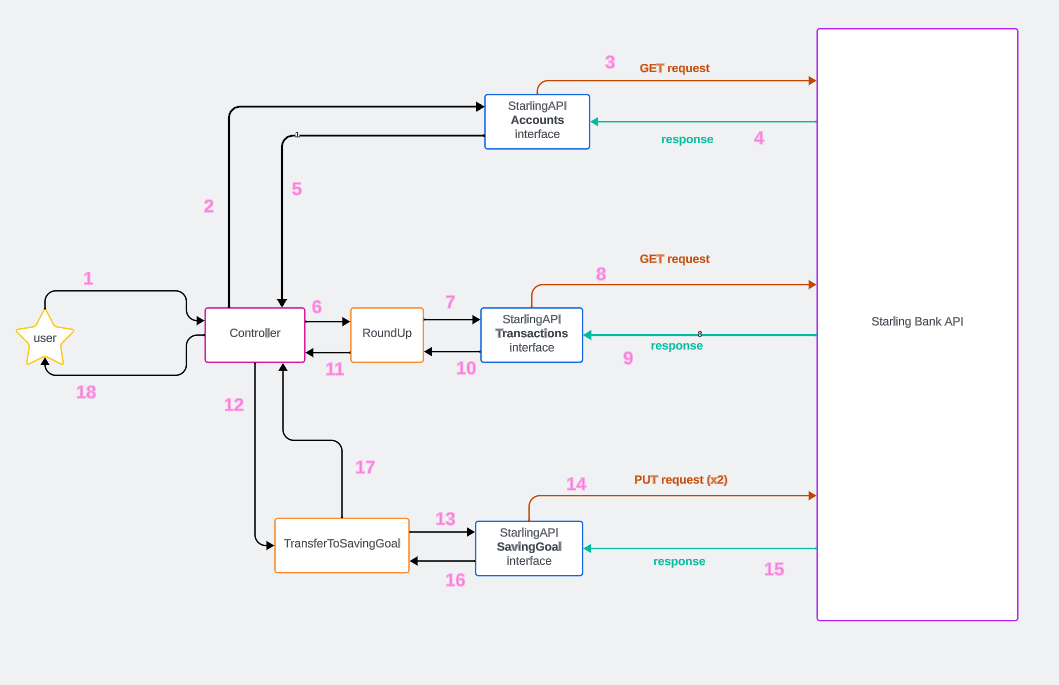
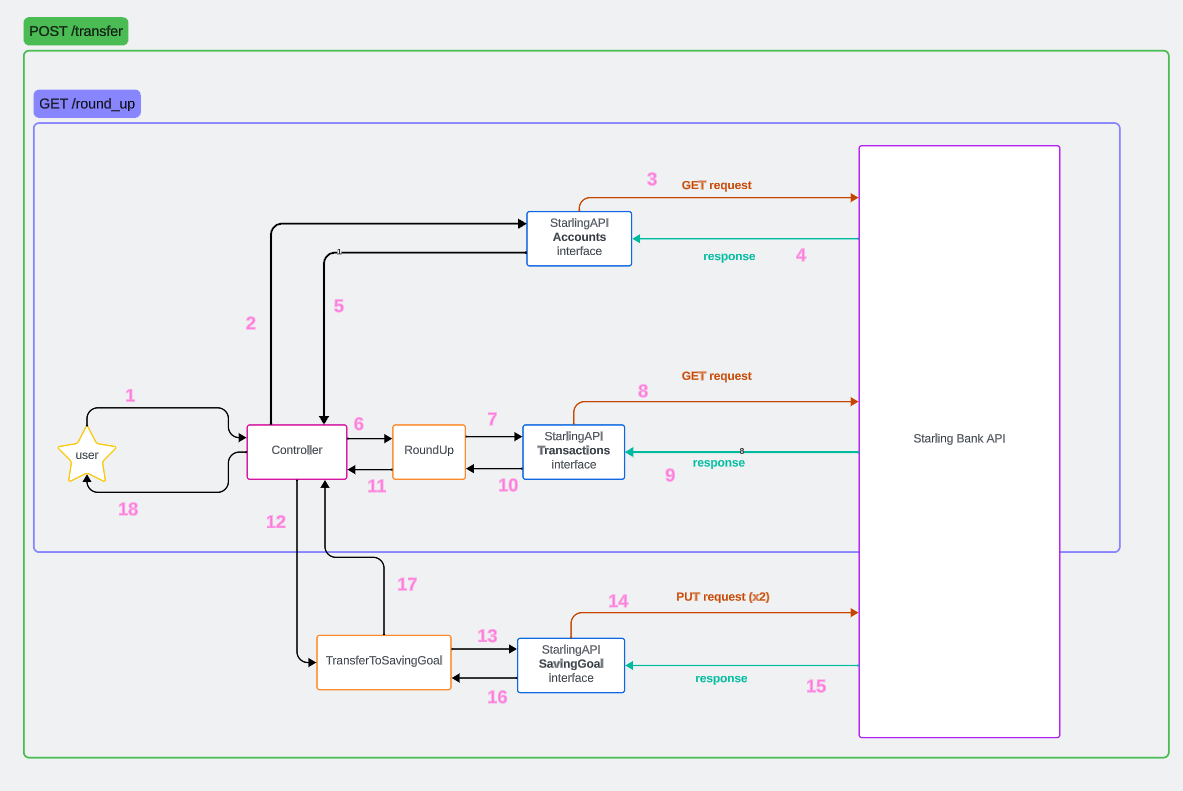
Update README

diff --git a/README.md b/README.md
@@ -6,10 +6,14 @@ For a customer, the transactions are rounded up to the nearest pound and this am
 
 ## Technologies
 
-- Ruby on rails 
-- RSpec
-- HTTPparty
-- Starling API
+- [Ruby on rails](https://rubyonrails.org/)
+- [RSpec](https://rspec.info/)
+- [HTTparty](https://github.com/jnunemaker/httparty)
+- [Starling Bank API](https://developer.starlingbank.com/docs)
+- [WebMock](https://github.com/bblimke/webmock)
+
+I used rails to implement this app without making use of all it provides (Models, database etc).
+I could have used Ruby and [Rack](https://github.com/rack/rack) to implement this instead of using Rails, however I opted for rails as it can be used as an API and also provide Front End.
 
 
 ## Set up
@@ -47,67 +51,80 @@ For a customer, the transactions are rounded up to the nearest pound and this am
   rails s
   ```
 
-- To get the round_up, run the following command in a different terminal:
-
-  ```
-  curl -X POST http://localhost:3000/round_up
-  ```
-
-  Response will look like: 
-
-  ```JSON
-  {'round_up_amount':'1351 pence (£13.51)'}
-  ```
-
-  Since there is only one account and the transactions are all recent, the `account_uid` and dates (`min_date` and `max_date`) have default values if not sent in the request. 
-
-  The default value for `account_uid` comes from a call to Starling API.
-  The default value for `min_date` and `max_date` set to `02/09/2023` and `09/09/2023` respectively.
-
-  However, they can also be sent in the request like so: 
- 
-   ```
-   curl -X POST http://localhost:3000/round_up -d 'account_uid=<account_uid>' -d 'min_date=<min_date>' -d 'max_date=<max_date>'
-   ```
-
-   `min_date` and `max_date` should be in the `dd/mm/year` format. 
-
-   
-- To transfer the money to saving goal, run the following command in the terminal:
+- To get the round up amount and transfer the money to saving goal, run the following command in the terminal:
 
   ```
   curl -X POST http://localhost:3000/transfer
   ```
   
+  This will  create a new saving goal and transfer the round up money to this new goal.
   The response will look like:
 
-  ```JSON
+  ```
   {'round_up_amount':'1351 pence (£13.51)','transfer_uid':'bf0f9563-4d81-4dbd-9a68-8c7f126e207d'}
   ```
-  
-  Same as `round_up`, the `account_uid` and dates (`min_date` and `max_date`) have default values and can be sent in the request. 
 
+  Since there is only one account and the transactions are all in the same period, the `account_uid` and dates (`min_date` and `max_date`) have default values if not sent in the request. 
+
+  The default value for `account_uid` comes from a call to Starling Bank API.
+  The default value for `min_date` and `max_date` are set to `02/09/2023` and `09/09/2023` respectively.
+
+  However, they can also be sent in the request like so: 
+  
    ```
    curl -X POST http://localhost:3000/transfer -d 'account_uid=<account_uid>' -d 'min_date=<min_date>' -d 'max_date=<max_date>'
    ```
-  This will create a new saving goal and transfer the round up money to this new goal.
+    `min_date` and `max_date` should be in the `dd/mm/year` format. 
 
+
+- To just get the round_up, run the following command in a different terminal:
+
+  ```
+  curl -X GET http://localhost:3000/round_up
+  ```
+
+  Response will look like: 
+
+  ```
+   {'round_up_amount':'1351 pence (£13.51)'}
+  ```
+
+  Same as `transfer`, the `account_uid` and dates (`min_date` and `max_date`) have default values and can be sent in the request. 
+
+  However, they can also be sent in the request like so: 
+ 
+   ```
+   curl -X GET http://localhost:3000/round_up -d 'account_uid=<account_uid>' -d 'min_date=<min_date>' -d 'max_date=<max_date>'
+   ```
+
+
+  
 ## Running specs
 
   ```
   rspec
   ```
 
+ There are 2 layers of testing:
+   - An acceptance test that tests both routes `/round_up` and `/transfer` using the real Starling Bank API.
+   - Unit testing:
+      - Testing for the Starling Bank API interface uses `WebMock` to mock requests. 
+      - Testing for the controller and operations stubs interactions with the interface. 
+
 ## Design
 
 ![Design](design.png)
+
+_`POST /transfer`  fullfills the requirements of this feature (gets the round_up amount and transfers it to a saving goal). The `GET /round_up` is an additional route that would just return the round up amount. This would be useful if we were to implement a Front End that would allow the user to see the round up amount first and click a button to start the transfer. In this case, to avoid calculating the round up twice and hitting the API multiple times, I would use a database to store it and retrieve it from there when needed._
 
 ## Approach
 
 - I started by implementing an interface for Starling API. One for each resource (`Accounts`, `Transactions` and `SavingGoal`).
 - I then implemented classes that I will need to implement the feature:
-   - `RoundUp` class which fetches the transactions for a week (either sent from request or with default values) using `Transactions` interface, selects the out transaction and rounds up the amount to the nearest pound.
-   - `TransferMoneyToSavingGoal` creates a new saving goal and then transfers the  money to this new saving goal using the `SavingGoal` interface.
-- I then created the routes `round_up` and`transfer` 
+   - `RoundUp` class which fetches the transactions for a week using `Transactions` interface, selects the out transactions and rounds up the amount to the nearest pound.
+   - `TransferMoneyToSavingGoal` creates a new saving goal and then transfers the money to this new saving goal using the `SavingGoal` interface.
+- I then created the routes `transfer` and `round_up`. 
+
+
 
 
